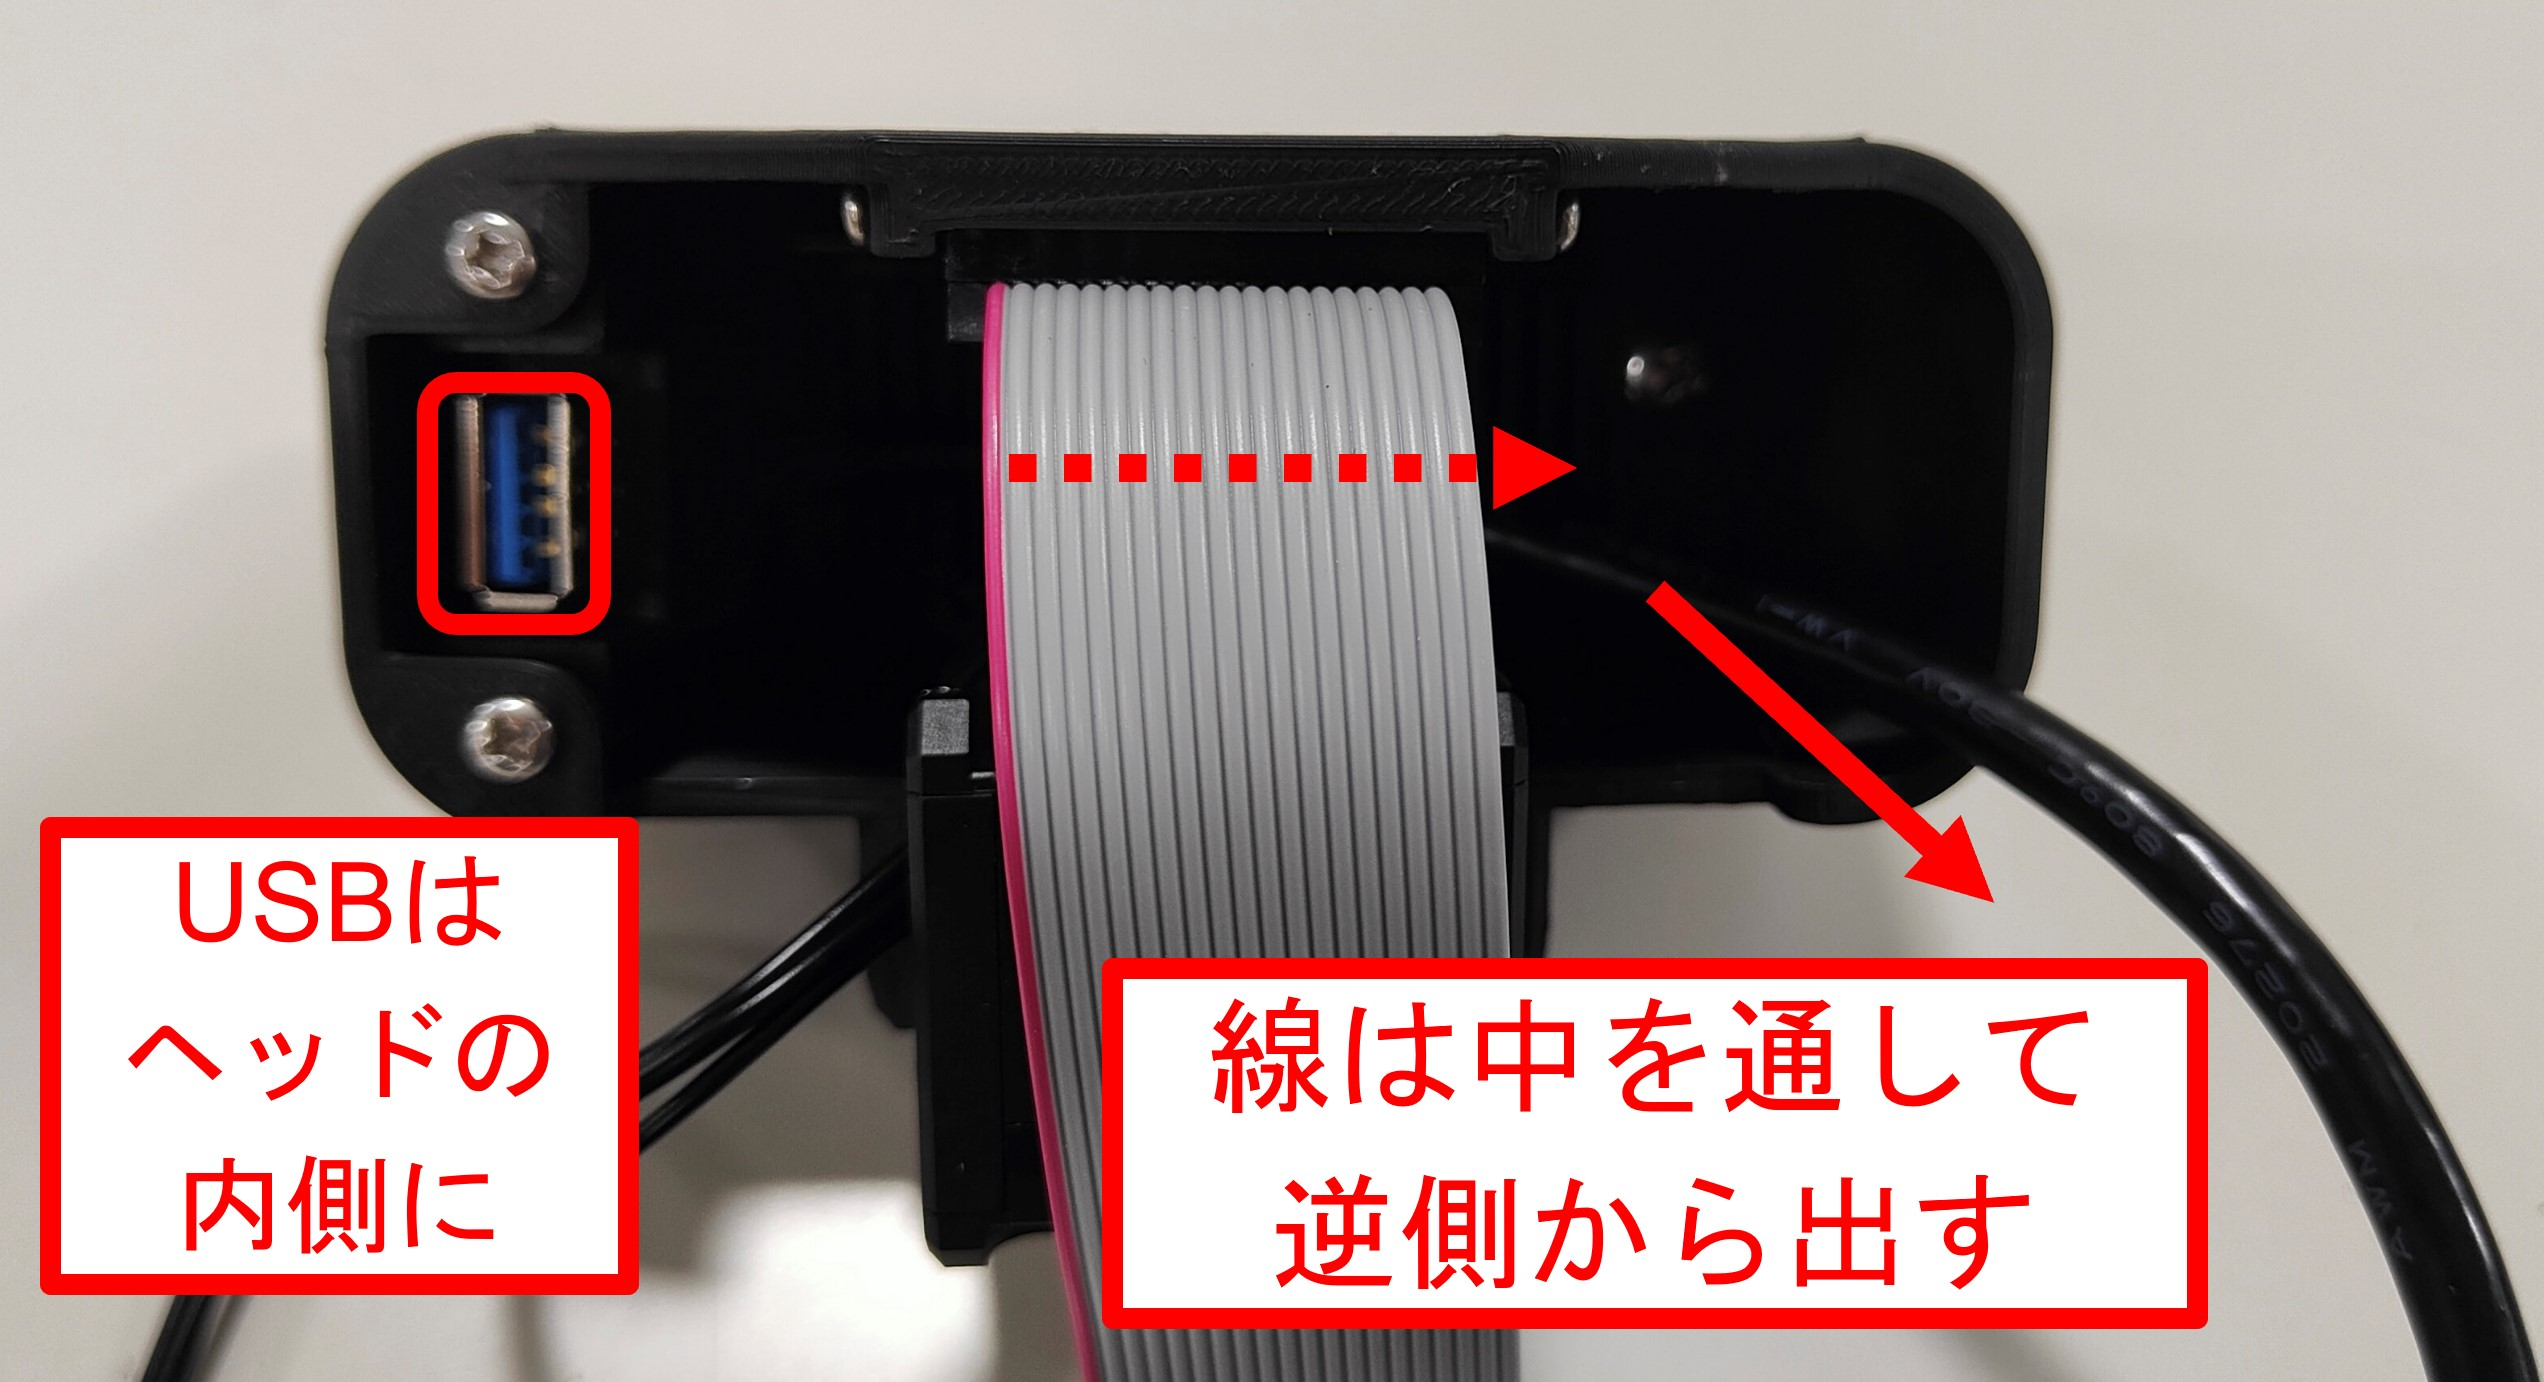
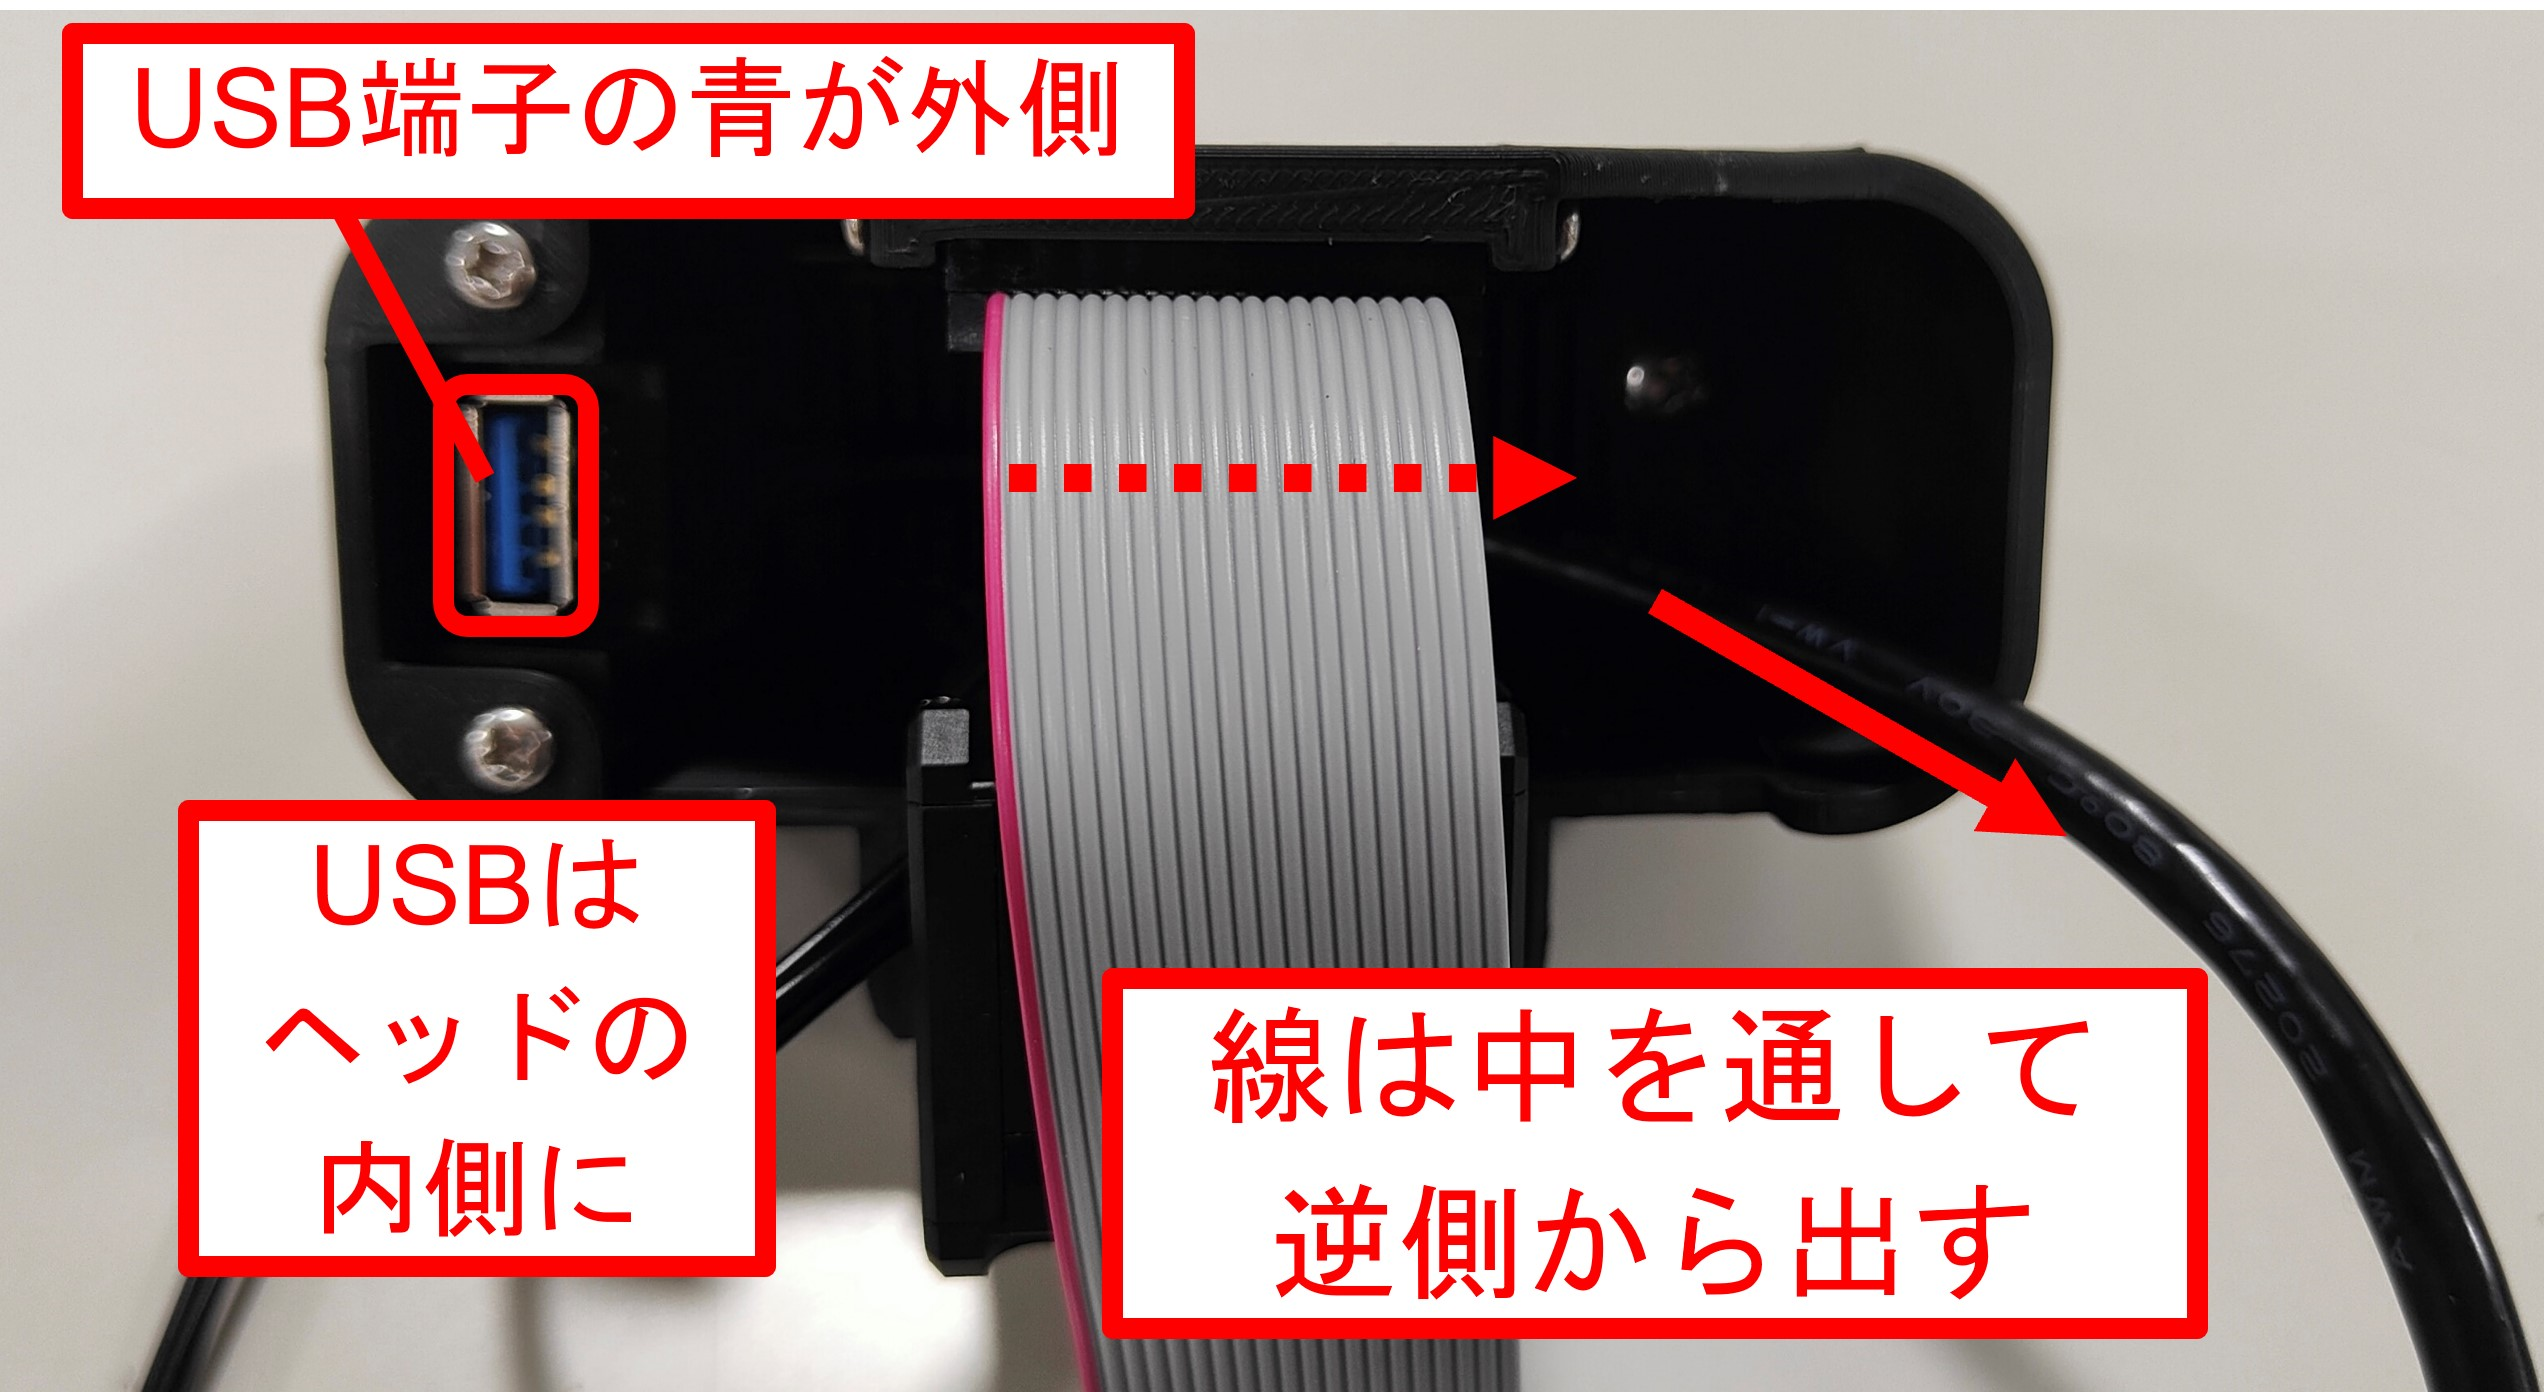
Fix from assembly feedback (#119)
* Fix from assembly feedback

* パネルマウントUSBの端子向きについて追記

* Fix explanation

* Update assembly_head.rst

追加した文言の削除

---------

diff --git a/source/assembly/assembly_hard/assembly_head.rst b/source/assembly/assembly_hard/assembly_head.rst
@@ -9,6 +9,7 @@
 必要な道具
 -----------------------------------------------------------
 | - 精密ドライバ(＋)
+| - No.2サイズのドライバ(＋)
 | - はさみ
 
 1 モーター部の組み立て
@@ -25,6 +26,7 @@
 手順
 ^^^^^^^^^^^^^^^^^^^^^^^^^^^^^^^^^^^^^^^^^^^^^^^^^^^^^^^^^^^
 1. `(25) Dynamixel 2XL430-W250-T` のID(B)ポートに付属のケーブルを接続する。
+| ケーブルはどちらの端をはめても違いはない。
 
 .. image:: ../../images/assembly/head/head01-02.jpg
     :width: 400px
@@ -152,6 +154,7 @@
 手順
 ^^^^^^^^^^^^^^^^^^^^^^^^^^^^^^^^^^^^^^^^^^^^^^^^^^^^^^^^^^^
 1. `(18)2x10(20P)両端コネクタ付IDCリボンケーブル` をヘッドの裏からはめ込む。
+| リボンケーブルはどちらの端をはめても違いはない。
 
 .. image:: ../../images/assembly/head/head05-02.jpg
     :width: 400px
@@ -163,6 +166,7 @@
 
 | **タッピングビスは、少し時計回りに進めてから一度反時計回りに戻す、を繰り返しながら、少しずつ締めていくこと。**
 | **無理に進めようとするとヘッドが割れます！**
+| **リボンケーブルがついていない状態で先にタッピングビスを締め、貫通させてから少し緩め、リボンケーブルをはめてビスを締める方がやりやすいです。**
 
 .. image:: ../../images/assembly/head/head05-04.jpg
     :width: 400px
@@ -184,11 +188,12 @@
 手順
 ^^^^^^^^^^^^^^^^^^^^^^^^^^^^^^^^^^^^^^^^^^^^^^^^^^^^^^^^^^^
 1. ヘッド内部に裏から `(31) パネルマウントUSB3.0ケーブル 30cm 左角度` を通す。
+| 端子内の青い板部がヘッドの外側にくるように取り付ける。
 
 .. image:: ../../images/assembly/head/head06-02.jpg
     :width: 400px
 
-2. `(31) パネルマウントUSB3.0ケーブル 30cm 左角度` に `(36) ボルトM3-6` で表側から2点ネジ留めする。
+1. `(31) パネルマウントUSB3.0ケーブル 30cm 左角度` に `(36) ボルトM3-6` で表側から2点ネジ留めする。
 
 .. image:: ../../images/assembly/head/head06-03.jpg
     :width: 400px

diff --git a/source/assembly/assembly_hard/assembly_base.rst b/source/assembly/assembly_hard/assembly_base.rst
@@ -8,6 +8,7 @@
 必要な道具
 -----------------------------------------------------------
 | - 精密ドライバ(＋)
+| - No.2サイズのドライバ(＋)
 
 
 １ アンテナの貼り付け
@@ -151,6 +152,8 @@
 ^^^^^^^^^^^^^^^^^^^^^^^^^^^^^^^^^^^^^^^^^^^^^^^^^^^^^^^^^^^
 1. ボディー部をベース部の溝に沿って横からスライドさせながらベース部に半分程度まで差し込む。
 
+ **ボディー内部の配線類のベースとの挟み込みに注意すること！**
+
 .. image:: ../../images/assembly/base/base06-02.jpg
     :width: 400px
 
@@ -160,6 +163,8 @@
     :width: 400px
 
 3. ボディー部を奥でロックするまでスライドさせ、ボディー部背面のUSB2本をベース部のLattepandaに接続する(接続するポートは任意の場所で良い)。
+
+ **ボディー内部の配線類のベースとの挟み込みに注意すること！**
 
 .. image:: ../../images/assembly/base/base06-04.jpg
     :width: 400px

diff --git a/source/assembly/assembly_hard/part_list.rst b/source/assembly/assembly_hard/part_list.rst
@@ -93,7 +93,7 @@
 必要な道具
 -----------------------------------------------------------
 | - 精密ドライバ(＋)
-| - 精密ドライバ(ー)
+| - No.2サイズのドライバ(＋)
 | - はんだごて
 | - はんだ線
 | - ニッパ
@@ -164,7 +164,7 @@
    38,"購入品","|38|","タッピングビスM2.5-6",,6,1,"`Amazon <https://www.amazon.co.jp/dp/B076ZF94HR>`__",
    39,"購入品","|39|","MicroSDカード",,1,1,"`Amazon <https://www.amazon.co.jp/dp/B00VQOEWYO>`__","容量2GB以上推奨"
    40,"購入品","|40|","磁石角型20x10x3",,2,1,"`Amazon <https://www.amazon.co.jp/dp/B09TKF2XQ8>`__","同寸法なら代替可"
-   41,"購入品",,"両面テープ","SRE-19",1,1,"`Amazon <https://www.amazon.co.jp/dp/B00BPJKM4E>`__","強めの両面テープなら代替可"
+   41,"購入品",,"両面テープ","KPU-12",1,1,"`Amazon <https://www.amazon.co.jp/dp/B00BPJLP3G>`__","強めの両面テープなら代替可"
 
 :doc:`assembly_head` へ進む
 

diff --git a/source/assembly/assembly_hard/assembly_body.rst b/source/assembly/assembly_hard/assembly_body.rst
@@ -8,6 +8,7 @@
 必要な道具
 -----------------------------------------------------------
 | - 精密ドライバ(＋)
+| - No.2サイズのドライバ(＋)
 | - ニッパ
 
 
@@ -228,6 +229,7 @@
 手順
 ^^^^^^^^
 1. `(8) M5Stack BASIC` の背面を外す。
+
 | **外れにくい場合は、マイナスドライバーをM5Stack側面の溝に差し込んで開く。**
 
 .. image:: ../../images/assembly/body/body07-02.jpg
@@ -236,7 +238,9 @@
 .. image:: ../../images/assembly/body/body07-03.jpg
     :width: 400px
 
-2. `(8) M5Stack BASIC` の前面を、ボディーに取り付けたM5stack用基板に表から差し込む
+2. `(8) M5Stack BASIC` の前面を、ボディーに取り付けたM5stack用基板に表から差し込む。
+
+| **ディスプレイ中央部分に強い力をかけないこと。ディスプレイが割れる場合があります！**
 
 .. image:: ../../images/assembly/body/body07-04.jpg
     :width: 400px
